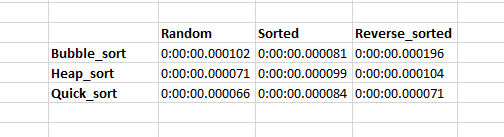
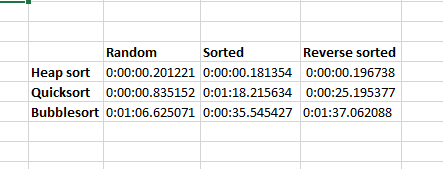
wieksza liczba danych

Changed region(s): [[0.0, 0.0, 1.0, 1.0]]

diff --git a/algorytmy_porownanie.py b/algorytmy_porownanie.py
@@ -1,4 +1,7 @@
 import datetime
+from numpy import random
+import sys
+sys.setrecursionlimit(55000)
 
 def quickSort(A,p,r):
     if (p < r):
@@ -60,24 +63,32 @@ def calculateExecutionTime(a, f):
     return end-now
 
 
-# 50 elements in each array
-
-A = [7,10,20,15,4,3,3,8,100,1,7,10,20,15,4,3,3,8,100,1,7,10,20,15,4,3,3,8,100,1,7,10,20,15,4,3,3,8,100,1,7,10,20,15,4,3,3,8,100,1]
+A=random.randint(100, size=(20000))
+B=A.copy()
+C=A.copy()
 print("Bubble_sort,random", calculateExecutionTime(A, bubbleSort))
-print("Heap_sort,random", calculateExecutionTime(A, heapSort))
-print("Quick_sort,random", calculateExecutionTime(A, quickSort))
+print("Heap_sort,random", calculateExecutionTime(B, heapSort))
+print("Quick_sort,random", calculateExecutionTime(C, quickSort))
 
-B = [1,2,3,4,5,6,7,8,9,10,11,12,13,14,15,16,17,18,19,20,21,22,23,24,25,26,27,28,29,30,31,32,33,34,35,36,37,38,39,40,41,42,43,44,45,46,47,48,49,50]
-print("Bubble_sort,sorted", calculateExecutionTime(B,bubbleSort))
+A=random.randint(100, size=(20000))
+A.sort()
+B=A.copy()
+C=A.copy()
+
+print("Bubble_sort,sorted", calculateExecutionTime(A,bubbleSort))
 print("Heap_sort,sorted", calculateExecutionTime(B,heapSort))
-print("Quick_sort,sorted", calculateExecutionTime(B,quickSort))
+print("Quick_sort,sorted", calculateExecutionTime(C,quickSort))
 
-C = [50,49,48,47,46,45,44,43,42,41,40,39,38,37,36,35,34,33,32,31,30,29,28,27,26,25,24,23,22,21,20,19,18,17,16,15,14,13,12,11,10,9,8,7,6,5,4,3,2,1]
-print("Bubble_sort,reverse_sorted", calculateExecutionTime(C, bubbleSort))
-print("Heap_sort,reverse_sorted", calculateExecutionTime(C, heapSort))
-print("Quick_sort,reverse_sorted", calculateExecutionTime(C, quickSort))
+A=random.randint(100, size=(20000))
+A.sort()
+B=A.copy()
+C=A.copy()
 
+print("Bubble_sort,reverse_sorted", calculateExecutionTime(A[::-1], bubbleSort))
+print("Heap_sort,reverse_sorted", calculateExecutionTime(B[::-1], heapSort))
+print("Quick_sort,reverse_sorted", calculateExecutionTime(C[::-1], quickSort))
 
-# Dla danych posortowanych, najlepiej sprawdza się sortowanie bąbelkowe (w tym algorytmie złożoność przy takim zbiorze danych wynosi O(n)).
-# W przypadku danych losowych, algorytmy heap_sort oraz quick_sort wykazały bardzo podobny czas wykonania - w obu przypadkach złożoność wynosi O(nlogn).
-# Dla danych odwrotnie posortowanych wyraźnie zauważamy bardzo niską wydajność sortowania bąbelkowego. Algorytmy heap_sort i quick_sort wykazują w tym przypadku podobne czasy wykonania.
+# Próbka danych: 200000 rekordów.
+# Dla wszystkich typów tablic, najszybszym algorytmem sortującym okazał się heap sort.
+# Quick sort jedynie w przypadku tablic losowych jest w stanie dorównać heap_sort pod względem czasu wykonania. W tablicach posortowanych oraz odwrotnie posortowanych jest zauważalnie wolniejszy.
+# Sortowanie bąbelkowe jest wielokrotnie mniej wydajnym algorytmem od pozostałych dwóch, i nie powinno być używane dla jakichkolwiek większych zbiorów danych.
